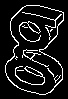
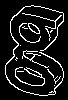
can divide an image, but recognition is still poor

diff --git a/CaptchaRecognition.py b/CaptchaRecognition.py
@@ -9,16 +9,13 @@ from numpy import unique
 from sklearn.cluster import Birch
 buffer = 5
 
-        
-    
-
 tolerance = 4
-img_path = "file1.png"
+img_path = "file2.png"
 img = cv2.imread(img_path)
 
 hsv = cv2.cvtColor(img, cv2.COLOR_BGR2HSV)
 
-mask = cv2.inRange(hsv, (0, 0, 10), (255, 50, 255))
+mask = cv2.inRange(hsv, (0, 0, 10), (255, 30, 255))
 
 
 # Build mask of non black pixels.
@@ -45,7 +42,6 @@ for y, row in enumerate(numpydata):
 
 # define dataset
 X = np.array(white_points)
-#print(X.tolist())
 # define the model
 model = Birch(threshold=0.01, n_clusters=7)
 # fit the model
@@ -60,55 +56,52 @@ for cluster in clusters:
  # get row indexes for samples with this cluster
     row_ix = where(yhat == cluster)
  # create scatter of these samples
-    #pyplot.scatter(X[row_ix, 0], X[row_ix, 1])
     xlist = X[row_ix, 0].tolist()[0]
     ylist = X[row_ix, 1].tolist()[0]
     
     element_image = numpydata[min(ylist) - buffer:max(ylist) + buffer, min(xlist) - buffer:max(xlist) + buffer]
-    
+    cv2.imwrite(f'ele{cluster}.jpg', element_image)
     new_images.append(element_image)
 histogram_list = []
 for i in new_images:
 
-    histogram_list.append(cv2.calcHist([i], [0],
-                            None, [256], [0, 256]))
-diffrance_list = []
+    histogram_list.append(cv2.calcHist([i], [0], None, [256], [0, 256]))
+diffrence_list = []
 
-diffrance = []
-for ele in histogram_list:
+
+for count1, ele in enumerate(histogram_list):
+    print (count1 + 1, '/', len(histogram_list))
     base_image = ele
-    lowest = 'x'
-    for h in histogram_list:
+    miniumum_distance = None
+    for count2, h in enumerate(histogram_list):
         
         i = 0
         c1 = 0
         while i<len(base_image) and i<len(h):
             c1+=(base_image[i]-h[i])**2
             i+= 1
-        c2 = c2**(1 / 2)
+        c1 = float(c1**(1 / 2))
+        if c1 != 0.0:
+            if miniumum_distance is None:
+                miniumum_distance = (count2, c1)
+            else:
+                
+                if c1 < miniumum_distance[1] and c1 != 0.0:
+                    miniumum_distance = (count2, c1)
+        print(c1)
+    print()
+    print(miniumum_distance)
+    diffrence_list.append(miniumum_distance)
+    print('\n')
+print(diffrence_list)
+#find most similar
 
-  
+minimum = diffrence_list[0][1]
+minimum_index = (0, diffrence_list[0][0])
+for i in range(len(diffrence_list)):
+    if diffrence_list[i][1] < minimum:
+       minimum = diffrence_list[i][1]
+       minimum_index = (i, diffrence_list[i][0])
+print(minimum_index)
 
 
-''' 
-# Euclidean Distance between data1 and test
-i = 0
-while i<len(histogram) and i<len(histogram1):
-    c1+=(histogram[i]-histogram1[i])**2
-    i+= 1
-c1 = c1**(1 / 2)
-  
- 
-# Euclidean Distance between data2 and test
-i = 0
-while i<len(histogram) and i<len(histogram2):
-    c2+=(histogram[i]-histogram2[i])**2
-    i+= 1
-c2 = c2**(1 / 2)
-'''
-if(diffrance[1]<diffrance[2]):
-    print("data1.jpg is more similar to test.jpg as compare to data2.jpg")
-else:
-    print("data2.jpg is more similar to test.jpg as compare to data1.jpg")
-# show the plot
-#pyplot.show()
